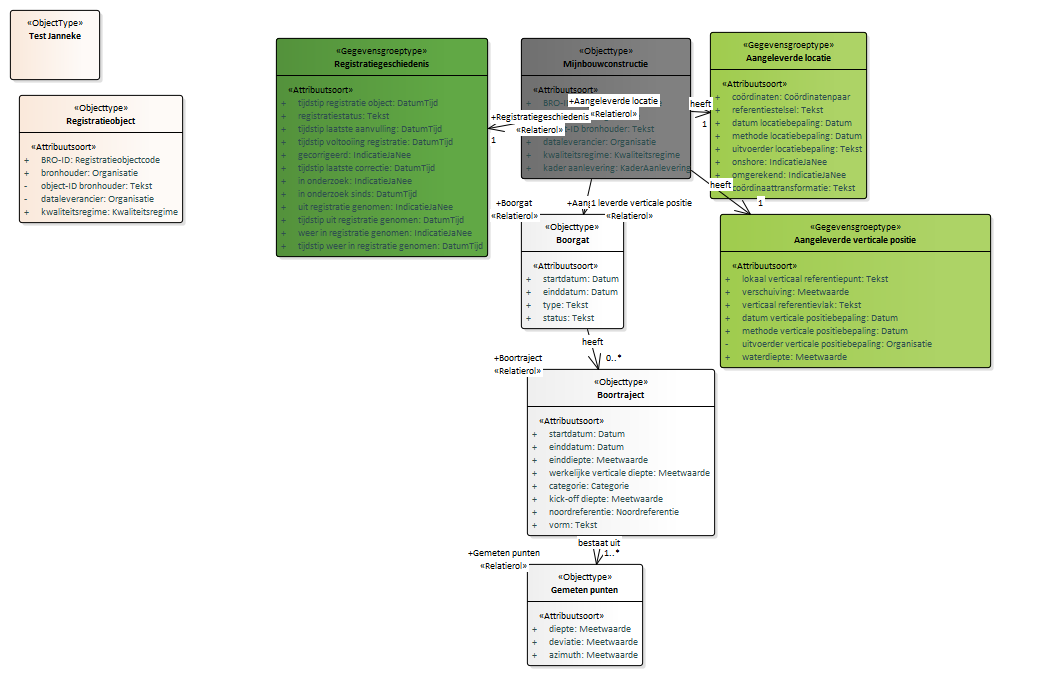
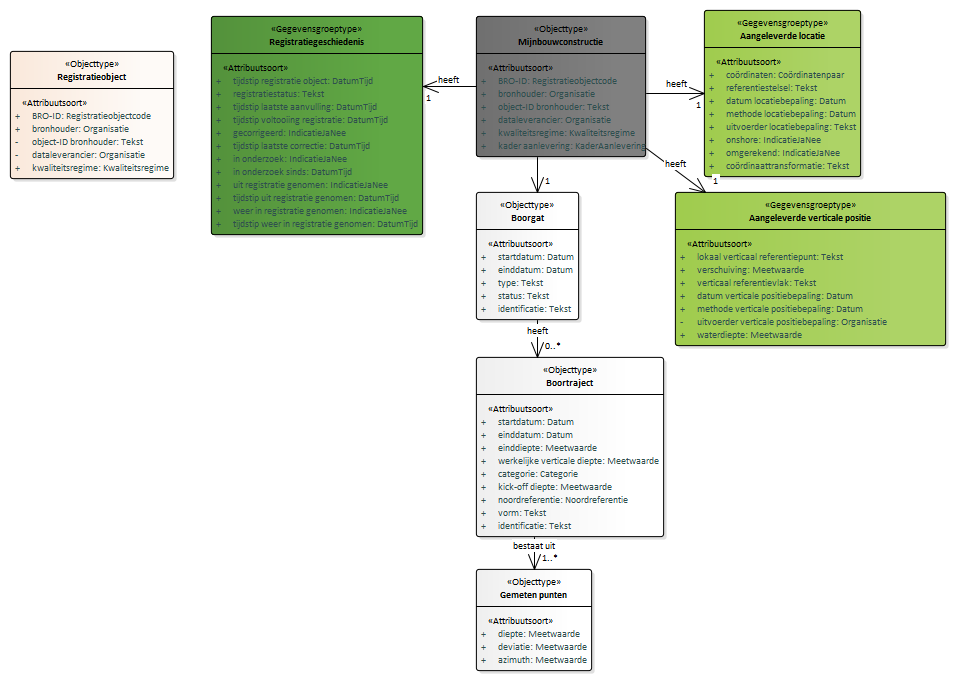
Conceptualmodel-MijnbouwconstructiesEPC-conceptueel-0.1versie27juli2020-1-20200727-20200807-141501

Changed region(s): [[0.2123, 0.0, 1.0, 0.9941], [0.0, 0.0, 0.182, 0.3417]]

diff --git a/data/EPC-cat.msword.html b/data/EPC-cat.msword.html
@@ -15,7 +15,7 @@
    <body>
       <p>Conceptual model/Mijnbouwconstructies (EPC) - conceptueel/20200727</p>
       <p>Imvertor: 1.61.2</p>
-      <p>Model release: Conceptualmodel-MijnbouwconstructiesEPC-conceptueel-0.1versie27juli2020-1-20200727-20200804-140440</p>
+      <p>Model release: Conceptualmodel-MijnbouwconstructiesEPC-conceptueel-0.1versie27juli2020-1-20200727-20200807-141501</p>
       <hr>
       <section>
          <h1>Artikel 1 Definitie van registratieobject, entiteiten en attributen</h1>
@@ -50,10 +50,9 @@
                         <td>
                            
                            <p>De populatie wandonderzoeken in de registratie ondergrond omvat alleen de onderzoeken
-                              die vanuit het vakgebied van de bodemkunde worden uitgevoerd.
-                              Ieder object heeft ter identificatie een eigen BRO-ID. </p>
-                           
-                           <p>De huidige gegevensdefinitie beperkt zich tot de wandbeschrijving en de wandmonsteranalyse.</p>
+                              die vanuit het vakgebied van de bodemkunde worden uitgevoerd. Ieder object heeft ter
+                              identificatie een eigen BRO-ID. 
+                              De huidige gegevensdefinitie beperkt zich tot de wandbeschrijving en de wandmonsteranalyse.</p>
                            </td>
                      </tr>
                   </tbody>
@@ -66,19 +65,7 @@
          </section>
          <section>
             <h2>Entiteiten en attributen</h2>
-            <section id=""><a class="anchor" id="graph_EAID_429F6C3B_30BA_4e29_92C7_C6B9EC05215A"></a><a class="anchor" id="global_class_Model_TestJanneke"></a><section id="global_class_Model_TestJanneke">
-                  <h3>   Test Janneke</h3>
-                  <table style="width: 100%;">
-                     <colgroup style="width: 30%;"></colgroup>
-                     <colgroup style="width: 70%;"></colgroup>
-                     <tbody>
-                        <tr>
-                           <th>Type gegeven</th>
-                           <td>Entiteit</td>
-                        </tr>
-                     </tbody>
-                  </table>
-               </section><a class="anchor" id="graph_EAID_4E52826A_2252_4994_8AD0_986AD45E18C9"></a><a class="anchor" id="global_class_Model_Boortraject"></a><section id="global_class_Model_Boortraject">
+            <section id=""><a class="anchor" id="graph_EAID_4E52826A_2252_4994_8AD0_986AD45E18C9"></a><a class="anchor" id="global_class_Model_Boortraject"></a><section id="global_class_Model_Boortraject">
                   <h3>   Boortraject</h3>
                   <table style="width: 100%;">
                      <colgroup style="width: 30%;"></colgroup>
@@ -438,6 +425,35 @@
                            </tr>
                         </tbody>
                      </table>
+                     </section><a class="anchor" id="detail_attribute_Model_Boortraject_identificatie"></a><section id="detail_attribute_Model_Boortraject_identificatie">
+                     <h4>  identificatie</h4>
+                     
+                     <table style="width: 100%;">
+                        <colgroup style="width: 30%;"></colgroup>
+                        <colgroup style="width: 70%;"></colgroup>
+                        <tbody>
+                           <tr>
+                              <th>Type gegeven</th>
+                              <td>Attribuut van Boortraject</td>
+                           </tr>
+                           <tr>
+                              <th>Juridische status</th>
+                              <td>Authentiek</td>
+                           </tr>
+                           <tr>
+                              <th>Kardinaliteit</th>
+                              <td>1</td>
+                           </tr>
+                           <tr>
+                              <th>Domein</th>
+                              <td></td>
+                           </tr>
+                           <tr>
+                              <th>&nbsp;&nbsp;Naam</th>
+                              <td>Tekst </td>
+                           </tr>
+                        </tbody>
+                     </table>
                      </section>
                </section><a class="anchor" id="graph_EAID_5A1B04C2_2C34_4376_8F2B_27867C2DD65B"></a><a class="anchor" id="global_class_Model_Gemetenpunten"></a><section id="global_class_Model_Gemetenpunten">
                   <h3>   Gemeten punten</h3>
@@ -740,6 +756,35 @@
                                  
                                  <p>De status van het boorgat.</p>
                                  </td>
+                           </tr>
+                           <tr>
+                              <th>Juridische status</th>
+                              <td>Authentiek</td>
+                           </tr>
+                           <tr>
+                              <th>Kardinaliteit</th>
+                              <td>1</td>
+                           </tr>
+                           <tr>
+                              <th>Domein</th>
+                              <td></td>
+                           </tr>
+                           <tr>
+                              <th>&nbsp;&nbsp;Naam</th>
+                              <td>Tekst </td>
+                           </tr>
+                        </tbody>
+                     </table>
+                     </section><a class="anchor" id="detail_attribute_Model_Boorgat_identificatie"></a><section id="detail_attribute_Model_Boorgat_identificatie">
+                     <h4>  identificatie</h4>
+                     
+                     <table style="width: 100%;">
+                        <colgroup style="width: 30%;"></colgroup>
+                        <colgroup style="width: 70%;"></colgroup>
+                        <tbody>
+                           <tr>
+                              <th>Type gegeven</th>
+                              <td>Attribuut van Boorgat</td>
                            </tr>
                            <tr>
                               <th>Juridische status</th>
@@ -2123,15 +2168,28 @@
                   </tr>
                   <tr>
                      <td>Horizontaal</td>
-                     <td></td>
+                     <td>
+                        
+                        <p>Als de gemeten hellingshoek over een minimale afstand van 100 meter groter is dan
+                           80 graden ten opzichte van de verticaal.</p>
+                        </td>
                   </tr>
                   <tr>
                      <td>Gedevieerd</td>
-                     <td></td>
+                     <td>
+                        
+                        <p>Als de vorm van het traject niet horizontaal is en het verschil tussen de einddiepte
+                           en de werkelijke verticale diepte groter is dan 0,1 procent of het verschil tussen
+                           de x-offset en y-offset behorende bij de einddiepte groter is dan 100 meter.</p>
+                        </td>
                   </tr>
                   <tr>
                      <td>Verticaal</td>
-                     <td></td>
+                     <td>
+                        
+                        <p>Als de vorm van het traject niet horizontaal is en niet gedevieerd dan is de vorm
+                           verticaal.</p>
+                        </td>
                   </tr>
                </tbody>
             </table>
